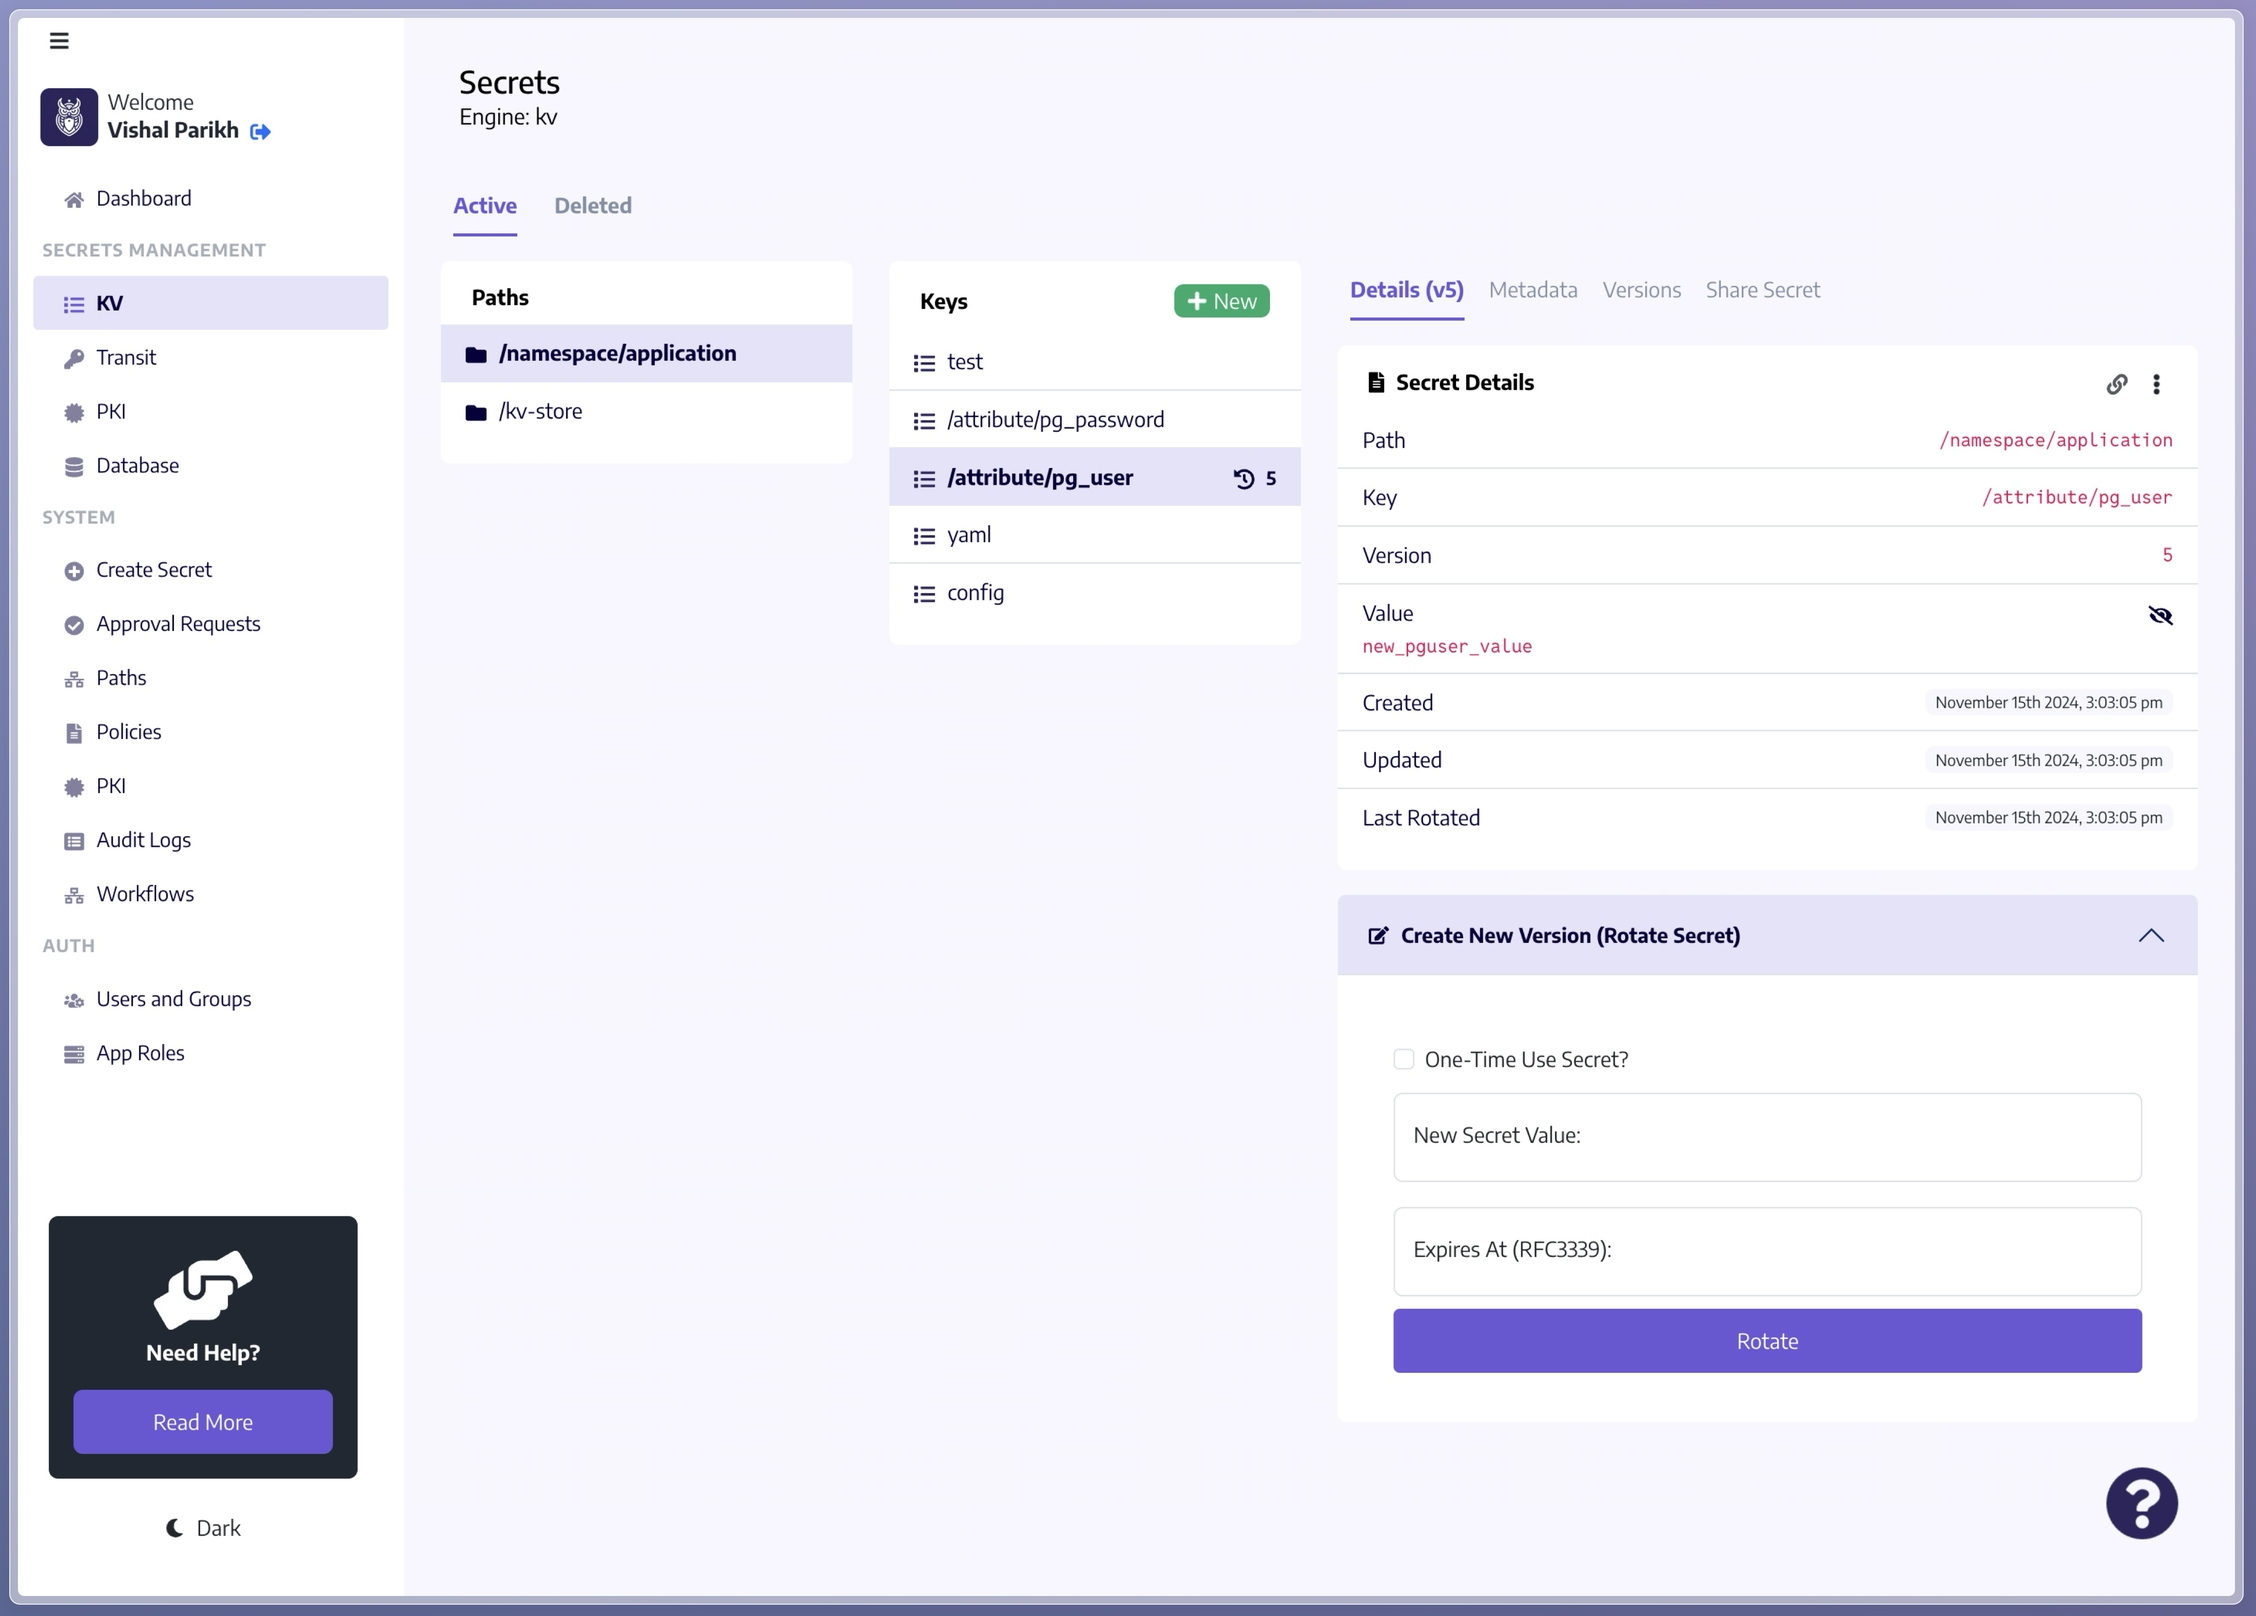
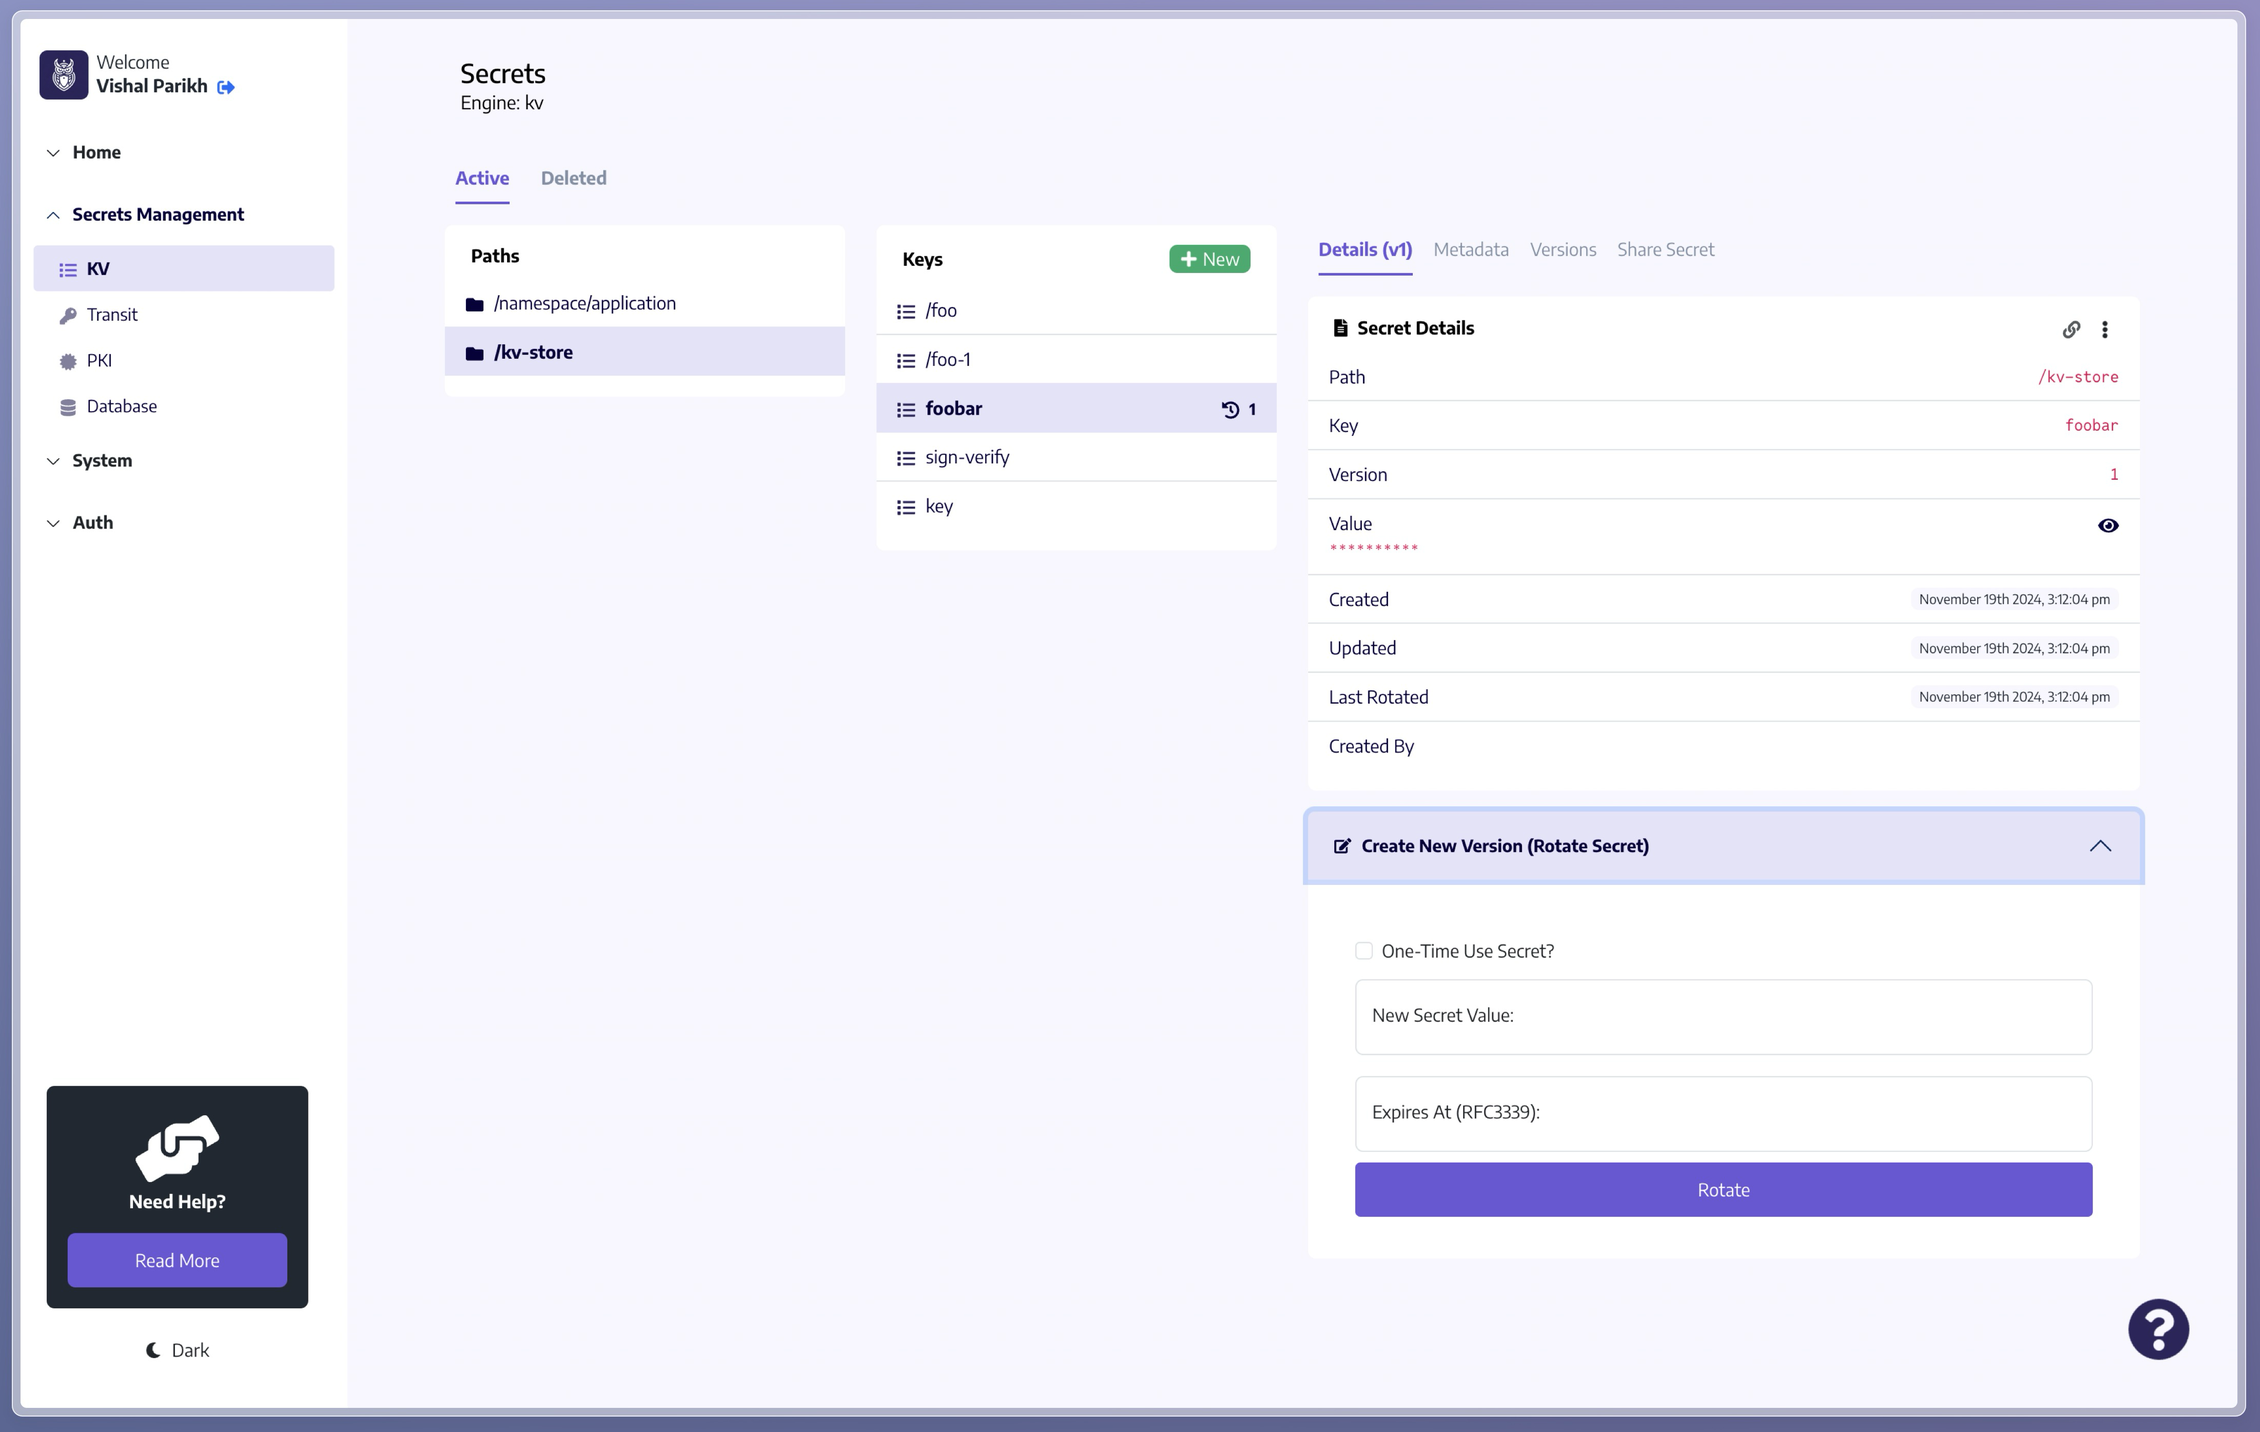
ui

diff --git a/cryptkeeper-ui/src/components/NavBar.js b/cryptkeeper-ui/src/components/NavBar.js
@@ -4,7 +4,7 @@ import { BrowserRouter as Router, Route, Routes, NavLink, Navigate } from 'react
 import { useTheme } from '../theme/ThemeContext';
 import HelpCard from './HelpCard';
 import logo from '../assets/logo.webp';
-import { FaKey, FaFolder, FaFileAlt, FaHistory, FaTrashAlt, FaEdit, FaUser, FaPlus, FaHome, FaCheck, FaShieldAlt, FaList, FaSignOutAlt, FaCog, FaCogs, FaCheckCircle, FaUsers, FaUsersCog, FaKeybase, FaEnvelope, FaListAlt, FaPlusCircle, FaNetworkWired, FaDochub, FaFileWord, FaServer, FaCertificate, FaBars, FaLock, FaChevronLeft, FaDashcube, FaDatabase } from 'react-icons/fa';
+import { FaKey, FaFolder, FaFileAlt, FaHistory, FaTrashAlt, FaEdit, FaUser, FaPlus, FaHome, FaCheck, FaShieldAlt, FaList, FaSignOutAlt, FaCog, FaCogs, FaCheckCircle, FaUsers, FaUsersCog, FaKeybase, FaEnvelope, FaListAlt, FaPlusCircle, FaNetworkWired, FaDochub, FaFileWord, FaServer, FaCertificate, FaBars, FaLock, FaChevronLeft, FaDashcube, FaDatabase, FaBriefcase } from 'react-icons/fa';
 import { Link } from 'react-router-dom';
 import Notifications from './Notifications';
 
@@ -38,15 +38,15 @@ const NavBar = ({ token, logout }) => {
 
     return (
         <>
-            <div className=''>
+            {/* <div className=''>
                 <button type="button" id="sidebar_menu_icon"
                     onClick={() => {
                         toggleSidebar();
                     }}
                     className="p-2 ms-1 ps-3 border-0 shadow-none  toggle-button  btn-sm   btn btn-transparent"><FaBars /></button>
-            </div>
+            </div> */}
             <Navbar.Brand className=''>
-                <div className='mt-3 ms-2 d-flex align-items-center '>
+                <div className='mt-4 ms-2 d-flex align-items-center '>
                     <NavLink to="/" className="">
                         <div className='text-center' style={{ width: "50px" }}><img className='rounded-2 w-75' src={logo} /></div>
                     </NavLink>
@@ -76,11 +76,20 @@ const NavBar = ({ token, logout }) => {
                             </>
                         ) :
                             <>
-                                            <NavLink className="nav-link" to="/"><FaHome className='me-2' /><span>Dashboard</span></NavLink>
 
                                 <Accordion defaultActiveKey="0" flush>
-                                    <Accordion.Item eventKey="0">
-                                        <Accordion.Header><FaKey className='me-2' /> Secrets Management</Accordion.Header>
+                                <Accordion.Item eventKey="0">
+                                        <Accordion.Header>Home</Accordion.Header>
+                                        <Accordion.Body className='p-0'>
+                                        <NavLink className="nav-link" to="/"><FaBriefcase className='me-2' /><span>Dashboard</span></NavLink>
+                                        <NavLink className="nav-link" to="/audit-logs"><FaListAlt className='me-2' /><span>Audit Logs</span></NavLink>
+
+
+
+                                        </Accordion.Body>
+                                    </Accordion.Item>
+                                    <Accordion.Item eventKey="1">
+                                        <Accordion.Header>Secrets Management</Accordion.Header>
                                         <Accordion.Body className='p-0'>
                                             <NavLink className="nav-link" to="/user/secrets/kv"><FaList className='me-2' /><span>KV</span></NavLink>
                                             <NavLink className="nav-link" to="/user/secrets/transit"><FaKey className='me-2' /><span>Transit</span></NavLink>
@@ -90,8 +99,8 @@ const NavBar = ({ token, logout }) => {
 
                                         </Accordion.Body>
                                     </Accordion.Item>
-                                    <Accordion.Item eventKey="1">
-                                        <Accordion.Header><FaCogs className='me-2' /> System</Accordion.Header>
+                                    <Accordion.Item eventKey="2">
+                                        <Accordion.Header>System</Accordion.Header>
                                         <Accordion.Body className='p-0'>
                                             <NavLink className="nav-link" to="/secrets/create"><FaPlusCircle className='me-2' /><span>Create Secret</span></NavLink>
                                             <NavLink className="nav-link" to="/approval-requests"><FaCheckCircle className='me-2' /><span>Approval Requests</span></NavLink>
@@ -99,14 +108,13 @@ const NavBar = ({ token, logout }) => {
                                             <NavLink className="nav-link" to="/policies"><FaFileAlt className='me-2' /><span>Policies</span></NavLink>
                                             <NavLink className="nav-link" to="/pki"><FaCertificate className='me-2' /><span>Create PKI CA</span></NavLink>
 
-                                            <NavLink className="nav-link" to="/audit-logs"><FaListAlt className='me-2' /><span>Audit Logs</span></NavLink>
                                             {/* <NavLink className="nav-link" to="/workflows"><FaNetworkWired className='me-2' /><span>Workflows</span></NavLink> */}
 
                                         </Accordion.Body>
                                     </Accordion.Item>
 
-                                    <Accordion.Item eventKey="2">
-                                        <Accordion.Header><FaUsers className='me-2'  /> Auth</Accordion.Header>
+                                    <Accordion.Item eventKey="3">
+                                        <Accordion.Header>Auth</Accordion.Header>
                                         <Accordion.Body className='p-0'>
                                             <NavLink className="nav-link" to="/management"><FaUsersCog className='me-2' /><span>Users and Groups</span></NavLink>
                                             <NavLink className="nav-link" to="/roles"><FaServer className='me-2' /><span>App Roles</span></NavLink>

diff --git a/cryptkeeper-ui/src/App.scss b/cryptkeeper-ui/src/App.scss
@@ -485,7 +485,7 @@ body #sidebar .nav-link {
   padding-left: 20px !important;
   font-size: 0.95em;
   font-weight: 400;
-  // margin: 0px 10px;
+  margin: 0px 10px;
   // font-family: "Noto Sans" !important;
 }
 
@@ -495,6 +495,15 @@ body #sidebar .accordion-button:not(.collapsed) {
   box-shadow: none!important;
 }
 
+body #sidebar .accordion-header button {
+  padding-left: 40px;
+}
+body #sidebar .accordion-button::after {
+  left:15px;
+  position: absolute;
+  top: 15px;
+  scale: 60%;
+}
 .nav-link {
   color: $light-text !important;
 }

diff --git a/internal/handlers/paths.go b/internal/handlers/paths.go
@@ -416,10 +416,12 @@ func (h *Handler) ListUserPaths(w http.ResponseWriter, r *http.Request) {
 		fmt.Println("User Policy IDs", groupPolicyIds)
 
 		// Get group policies
-		err = h.DB.Model((*models.GroupPolicy)(nil)).ColumnExpr("array_agg(distinct policy_id)").Where("group_id IN (?)", pg.In(userGroups)).Select(pg.Array(&groupPolicyIds))
-		if err != nil {
-			http.Error(w, err.Error(), http.StatusInternalServerError)
-			return
+		if len(userGroups) > 0 {
+			err = h.DB.Model((*models.GroupPolicy)(nil)).ColumnExpr("array_agg(distinct policy_id)").Where("group_id IN (?)", pg.In(userGroups)).Select(pg.Array(&groupPolicyIds))
+			if err != nil {
+				http.Error(w, err.Error(), http.StatusInternalServerError)
+				return
+			}
 		}
 	}
 

diff --git a/README.md b/README.md
@@ -7,9 +7,10 @@
 
 CryptKeeper is an advanced secrets management platform designed to securely store and manage sensitive information. It supports various secret engines like Key-Value (KV), Transit, PKI, and Database. The platform also integrates with external systems such as AWS Secrets Manager, Azure Key Vault, and HashiCorp Vault.
 
+<img src="./docs/images/diagram1.png" >
+
 > **CryptKeeper is still under active development and not production ready**
 > 
-<img src="./docs/images/1.png" >
 
 
 ## Table of Contents
@@ -49,6 +50,9 @@ CryptKeeper is an advanced secrets management platform designed to securely stor
   - [License](#license)
 
 ## Features
+
+<img src="./docs/images/1.png" >
+
 
 ### Secrets Management:
 - **Web Interface**: Intuitive web interface for managing secrets and policies.
